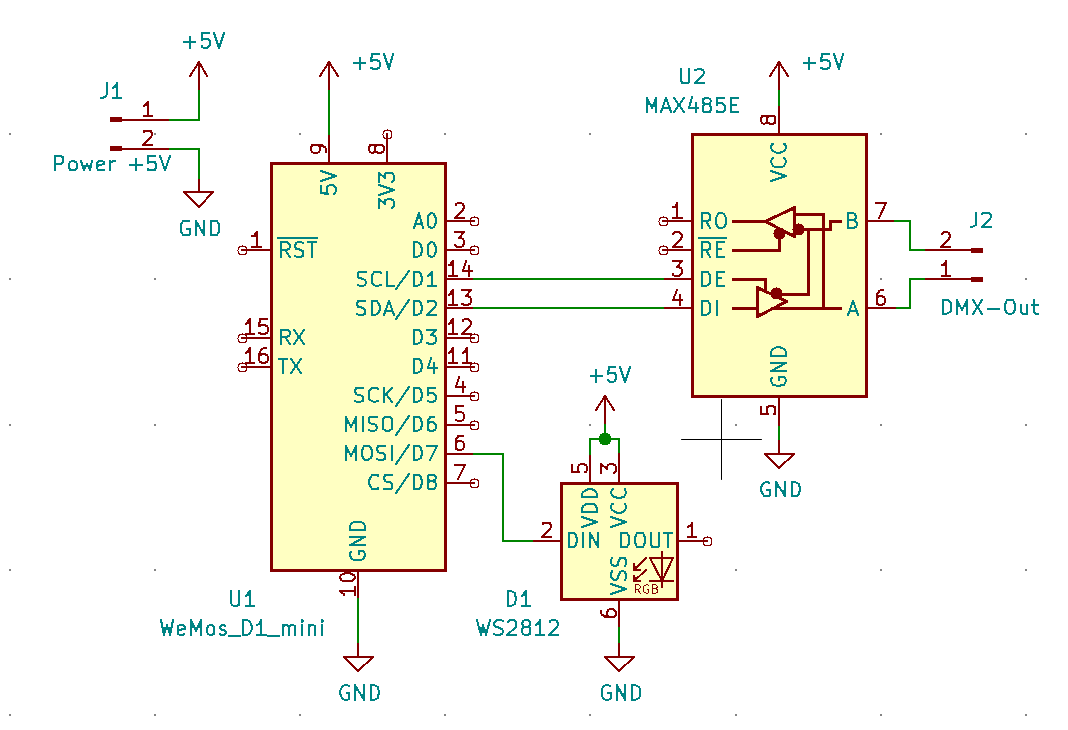
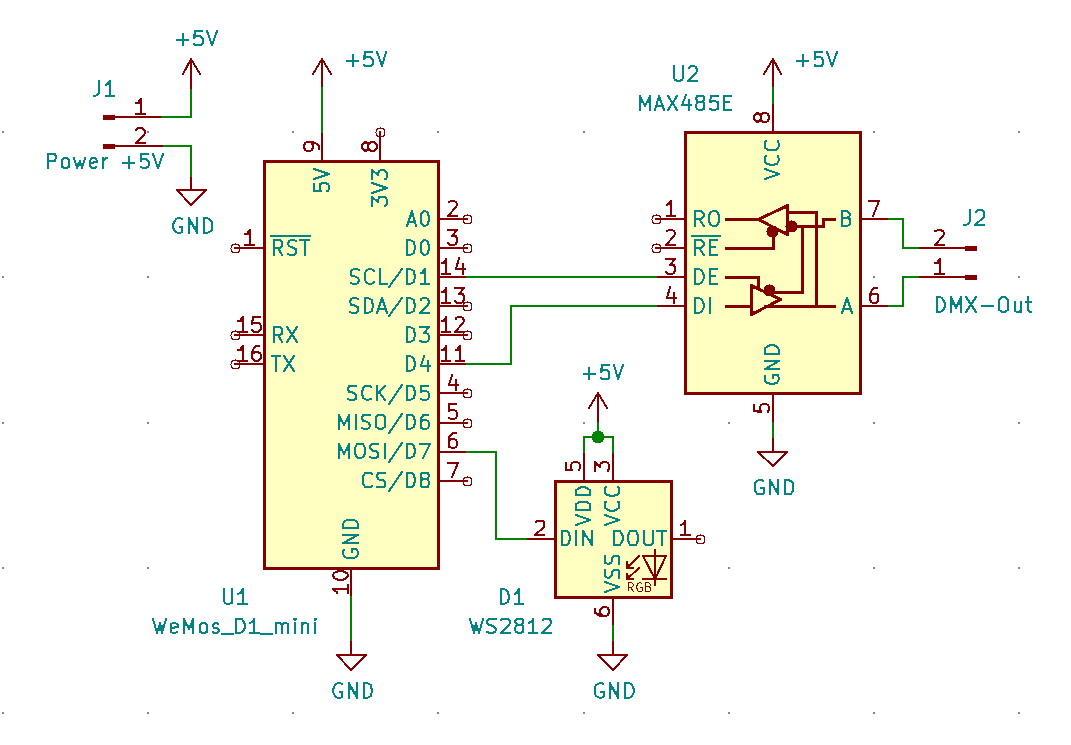
Fixed Serial1 port assignment in README and schematics

Changed region(s): [[0.0309, 0.0603, 0.9888, 0.9644], [0.4326, 0.4822, 0.6798, 0.9644], [0.1545, 0.0301, 0.2163, 0.1205]]

diff --git a/README.md b/README.md
@@ -39,24 +39,29 @@ Wherever there is activity on the web interface (configuration, monitoring), the
 
 # Wiring diagram
 
+         Wemos D1:
                             +-----+ 
                        Rst  +  W  +  Tx
                         A0  +  E  +  Rx
                  D0/GPIO16  +  M  +  D1/GPIO5   -> RS422 En
-        LED_B <- D5/GPIO14  +  O  +  D2/GPIO4   -> RS422 Tx
+        LED_B <- D5/GPIO14  +  O  +  D2/GPIO4 
         LED_R <- D6/GPIO12  +  S  +  D3/GPIO0*
-    NEO/LED_G <- D7/GPIO13  +     +  D4/GPIO2*
+    NEO/LED_G <- D7/GPIO13  +     +  D4/GPIO2*  -> RS422 Tx
                  D8/GPIO15* +  D  +  Gnd
                        3V3  +  1  +  5V
                             +-----+ 
 
 
-	MAX485:		1 Rx      vcc 8
-			2 RxEn   outb 7
-			3 TxEn   outa 6
-			4 Tx      gnd 5
+            MAX485:		1 Rx      vcc 8
+			            2 RxEn   outb 7
+			            3 TxEn   outa 6
+			            4 Tx      gnd 5
 
-There is also a schematcics among the files
+There is also a schematics among the files
+
+# ToDo
+
+Add an Artnet PollReply so that the device is visible to Artnet controllers
 
 # Reference
 
